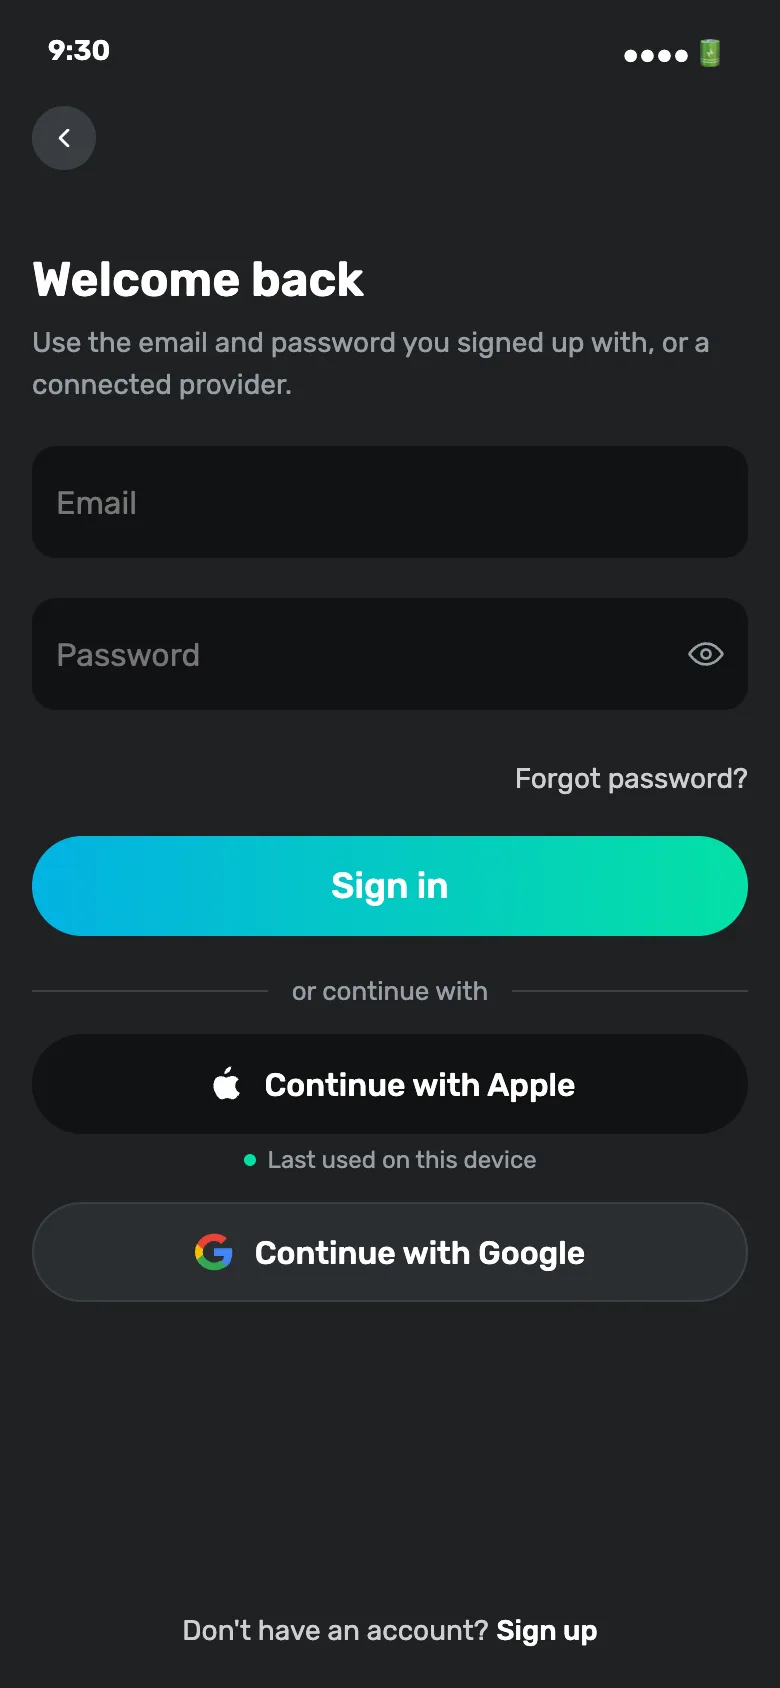
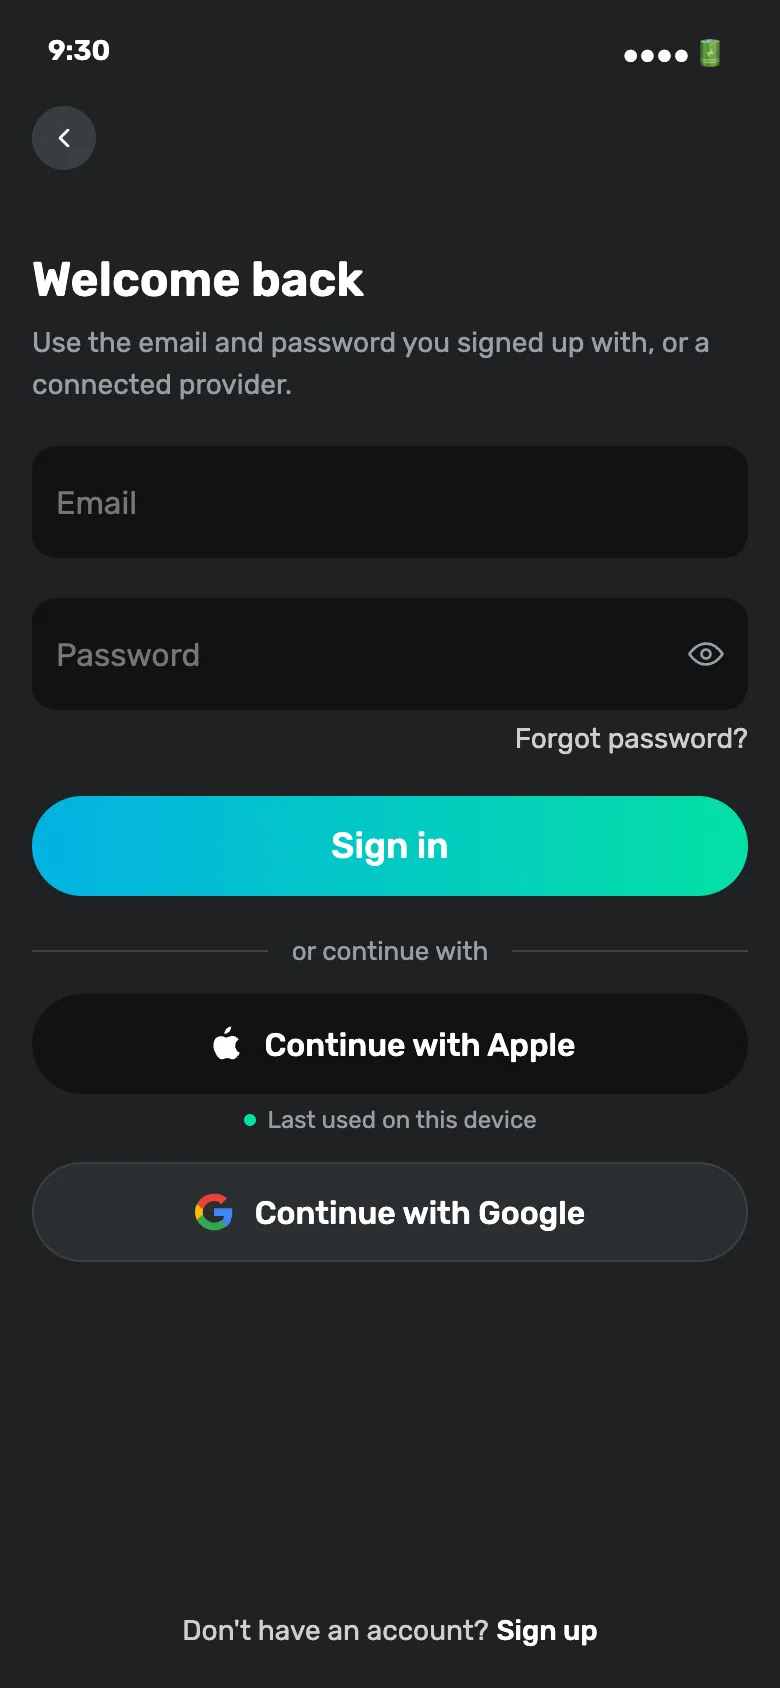
Auth circles: a ring instead of a dot, and two objections withdrawn
The owner took apart the weaker half of my case against circles, correctly.

"The words go" — but "or continue with" already sits above the row and names
what these are, so the per-button label was saying it a second time. What
actually remains is much narrower: a future provider whose mark is not
recognisable on sight, which is that provider's problem on the day it arrives,
not the layout's.

"A third one will not fit" — it is another circle. The row grows sideways where
the wide stack grows downward, so it scales better, not worse.

Last used is now a ring around the circle rather than a dot beside it. The dot
was a second object to decode sitting next to the thing it described; a ring
marks the thing itself, which is what "you used this one" means. The aria-label
carries the state in words, so colour is not the only signal.

Forgot password? pulled up into the field's own bottom margin. It had been
sitting in a gap of its own, which read as a separate thing rather than as a
footnote to the password above it.

Changed region(s): [[0.0308, 0.4313, 0.9846, 0.7701]]

diff --git a/prototypes/flows/shared/auth.html b/prototypes/flows/shared/auth.html
@@ -287,12 +287,12 @@
   }
   .au-provider-circle svg { width: 26px; height: 26px; }
   .fit-light .au-provider-circle { background: var(--fit-white); box-shadow: var(--fit-shadow-card); }
-  /* No caption room beside a circle, so "last used" degrades to a dot. That is a
-     real cost of this variant, not a detail — the words are gone. */
-  .au-provider-circle--last::after {
-    content: ""; position: absolute; top: 2px; right: 2px;
-    width: 10px; height: 10px; border-radius: 50%;
-    background: var(--fit-teal-500); border: 2px solid var(--fit-screen-bg);
+  /* Last used: a ring around the circle rather than a dot beside it. The dot was
+     a second object to decode; the ring marks the thing itself, which is what
+     "you used this one" means. Screen readers still get it — the aria-label
+     carries the state, the ring is not the only signal. */
+  .au-provider-circle--last {
+    box-shadow: inset 0 0 0 2px var(--fit-teal-500);
   }
 
   /* "Last used" indicator under provider button (sign-in) */
@@ -307,9 +307,13 @@
   }
 
   /* Forgot password inline link (under Sign in CTA) */
+  /* Pulled up into the field's own bottom margin (fit-input-group carries
+     --fit-sp-5). Otherwise the link sits in a gap of its own and reads as a
+     separate thing rather than as a footnote to the password. */
   .au-forgot-link-wrap {
     display: flex; align-items: center; justify-content: flex-end;
-    padding: 6px 16px 0;
+    padding: 0 16px;
+    margin-top: -14px;
   }
   .au-forgot-link {
     background: transparent; border: none; cursor: pointer;
@@ -763,7 +767,7 @@
 
     <div class="au-circle-row">
       <button class="fit-icon-btn au-provider-circle au-provider-circle--last"
-              data-a11y-id="auth.signin.circles.method.apple" aria-label="Continue with Apple">
+              data-a11y-id="auth.signin.circles.method.apple" aria-label="Continue with Apple — last used on this device">
         <svg viewBox="0 0 24 24" fill="currentColor"><path d="M16.365 1.43c0 1.14-.493 2.27-1.177 3.08-.744.9-1.99 1.57-2.987 1.493-.12-1.06.396-2.2 1.075-2.99.762-.88 2.012-1.5 3.089-1.583zm3.86 17.52c-.764 1.13-1.595 2.235-2.948 2.253-1.327.026-1.753-.79-3.27-.79-1.517 0-1.99.764-3.247.815-1.305.05-2.295-1.21-3.07-2.33C5.97 16.73 4.762 12.45 6.367 9.6c.776-1.42 2.18-2.32 3.71-2.34 1.275-.025 2.482.86 3.27.86.79 0 2.27-1.06 3.83-.9.66.026 2.5.26 3.69 1.97-.094.06-2.20 1.30-2.18 3.87.02 3.05 2.67 4.07 2.70 4.08-.024.073-.43 1.46-1.42 2.84z"/></svg>
       </button>
       <button class="fit-icon-btn au-provider-circle"
@@ -1302,20 +1306,24 @@
     read about. Everything else is identical because it is a literal clone — if the two
     ever differ anywhere but the provider block, that is a bug.</p>
     <hr>
-    <p><strong>What circles buy:</strong> the providers stop competing with the CTA. Two
-    wide buttons under a gradient button read as three offers of similar weight; two
-    circles read as "and these also exist". The screen gets shorter and the email path is
-    unmistakably the main one.</p>
-    <p><strong>What they cost:</strong></p>
+    <p><strong>What circles buy:</strong> the providers stop competing with the CTA.
+    Two wide buttons under a gradient button read as three offers of similar weight;
+    two circles read as "and these also exist". The screen gets shorter and the email
+    path is unmistakably the main one.</p>
+    <p><strong>Two objections withdrawn (owner, 2026-08-20)</strong>, and they were the
+    weaker half of the case against:</p>
     <ul>
-      <li><strong>The words go.</strong> "Continue with Apple" becomes a logo — fine for
-      these two, useless the day a third arrives that nobody recognises by mark alone.</li>
-      <li><strong>"Last used on this device" has nowhere to live</strong> and degrades to
-      a dot on the circle. A returning user who signed in with Google now has to remember
-      what the dot means.</li>
-      <li>Accessibility rests entirely on <code>aria-label</code>; there is no visible
-      text to read out or to translate.</li>
+      <li>"The words go" — <em>or continue with</em> already sits above the row and names
+      what these are. The per-button label was saying it a second time. What actually
+      remains is narrower: a future provider whose mark is not recognisable on sight, and
+      that is a problem for that provider on the day it arrives, not for the layout.</li>
+      <li>"A third one will not fit" — it is another circle. The row grows sideways where
+      the wide stack grows downward, so it scales <em>better</em>, not worse.</li>
     </ul>
+    <p><strong>Last used is a ring, not a dot.</strong> The dot was a second object to
+    decode sitting next to the thing it described; a ring marks the thing itself, which is
+    what "you used this one" means. The <code>aria-label</code> carries the state in
+    words, so the colour is not the only signal.</p>
     <p><strong>Components:</strong> kit <code>fit-icon-btn</code> (already the circular
     button) + page-local <code>au-provider-circle</code>, which only resizes it 32 → 56px:
     32 is a header affordance, a provider choice is a primary target and HIG asks 44

diff --git a/prototypes/board/board-data.js b/prototypes/board/board-data.js
@@ -10,7 +10,7 @@ window.FIT_BOARD = {
       "screens": [
         {
           "id": "s-role-pick",
-          "hash": "01fb5a477308",
+          "hash": "05f12acf169c",
           "title": "Role pick",
           "inApp": "",
           "status": "canon",
@@ -29,7 +29,7 @@ window.FIT_BOARD = {
         },
         {
           "id": "s-signup-email",
-          "hash": "49697d5d9673",
+          "hash": "0935554a7070",
           "title": "Sign up",
           "inApp": "",
           "status": "canon",
@@ -48,7 +48,7 @@ window.FIT_BOARD = {
         },
         {
           "id": "s-signin-email",
-          "hash": "68049a7b11ab",
+          "hash": "7e371426c850",
           "title": "Sign in",
           "inApp": "",
           "status": "canon",
@@ -67,7 +67,7 @@ window.FIT_BOARD = {
         },
         {
           "id": "s-signin-circles",
-          "hash": "7aaa43266713",
+          "hash": "5a40af50aa0e",
           "title": "Sign in · circles (variant)",
           "inApp": "",
           "status": "proposal",
@@ -87,7 +87,7 @@ window.FIT_BOARD = {
         },
         {
           "id": "s-forgot-email",
-          "hash": "8a6e796ebed3",
+          "hash": "9c398bc201d5",
           "title": "Step 1 · enter email",
           "inApp": "",
           "status": "canon",
@@ -106,7 +106,7 @@ window.FIT_BOARD = {
         },
         {
           "id": "s-forgot-otp",
-          "hash": "c9b74c2b3a71",
+          "hash": "ab29fd8a04f5",
           "title": "Step 2 · OTP code",
           "inApp": "",
           "status": "canon",
@@ -125,7 +125,7 @@ window.FIT_BOARD = {
         },
         {
           "id": "s-forgot-new",
-          "hash": "9dfddae1b05e",
+          "hash": "7931aa98cd9e",
           "title": "Step 3 · new password",
           "inApp": "",
           "status": "canon",
@@ -144,7 +144,7 @@ window.FIT_BOARD = {
         },
         {
           "id": "s-phone-enter",
-          "hash": "eceaa4f2a5de",
+          "hash": "a7c69d5c99f2",
           "title": "Phone · enter number",
           "inApp": "",
           "status": "canon",
@@ -164,7 +164,7 @@ window.FIT_BOARD = {
         },
         {
           "id": "s-phone-otp",
-          "hash": "1cea5a661721",
+          "hash": "05234d8264fb",
           "title": "Phone · OTP code",
           "inApp": "",
           "status": "canon",
@@ -184,7 +184,7 @@ window.FIT_BOARD = {
         },
         {
           "id": "s-country-picker",
-          "hash": "fd110ab69411",
+          "hash": "f4e8c28fe225",
           "title": "Country picker",
           "inApp": "Country or region",
           "status": "canon",

diff --git a/specs/authentication.md b/specs/authentication.md
@@ -151,10 +151,20 @@ with only the provider block changed, so the two can be compared by looking.
 
 **Circles buy** the providers no longer competing with the CTA: two wide buttons under a
 gradient button read as three offers of similar weight, two circles read as "and these
-also exist". **They cost** the words — "Continue with Apple" becomes a logo, fine for
-two providers everyone knows by mark, useless for a third; *"Last used on this device"*
-degrades to a dot with nothing to explain it; and accessibility rests entirely on
-`aria-label`. **Undecided — the owner's call.**
+also exist". The screen gets shorter and the email path is unmistakably the main one.
+
+**Two objections against them were withdrawn** after review, and they were the weaker
+half of the case: *"the words go"* — the *or continue with* rule already sits above the
+row and names what these are, so the per-button label was saying it twice; and *"a third
+provider will not fit"* — it is another circle, and the row grows sideways where the wide
+stack grows downward, so it scales better rather than worse. What remains is narrow: a
+future provider whose mark is not recognisable on sight.
+
+**Last used is a ring around the circle**, not a dot beside it — the dot was a second
+object to decode next to the thing it described. `aria-label` carries the state in words,
+so colour is not the only signal.
+
+**Undecided — the owner's call.**
 
 **⚠ Implementation drift, not filed:** the live **Android** build still shows a
 `Repeat password` field on sign-up, and still routes through the method picker. iOS
